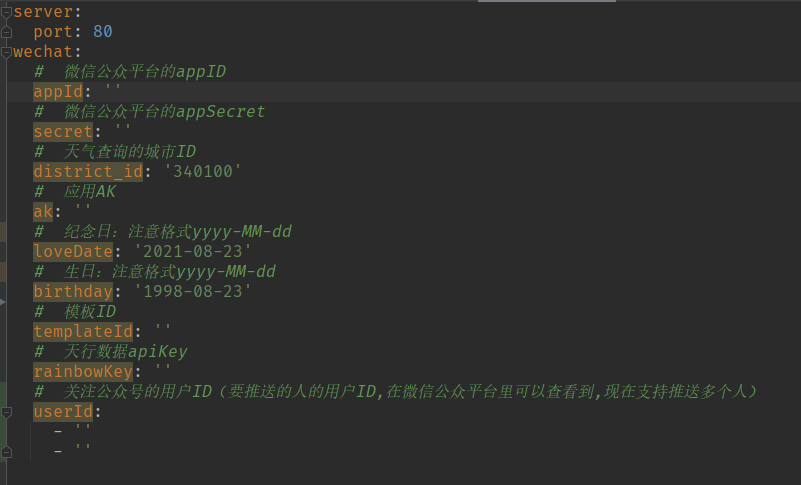
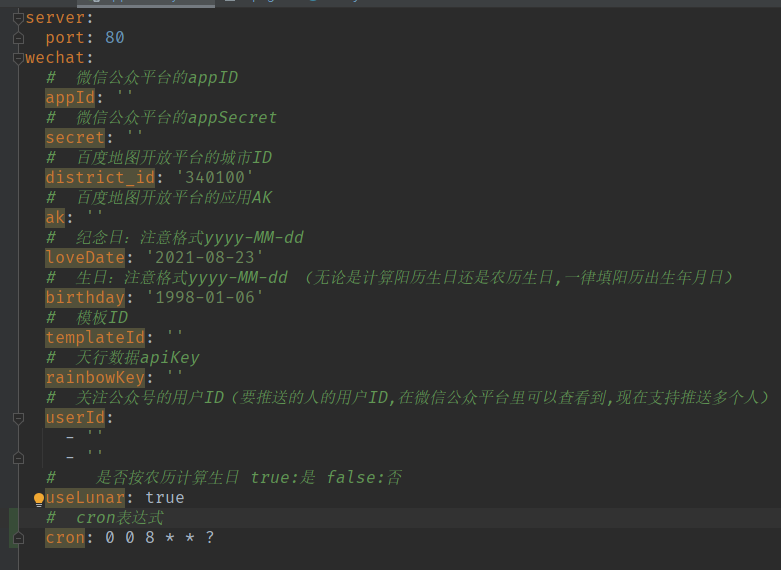
第六次提交,cron表达式也放到配置里

diff --git a/src/main/java/com/cws/scheduled/Task.java b/src/main/java/com/cws/scheduled/Task.java
@@ -14,8 +14,8 @@ import org.springframework.scheduling.annotation.Scheduled;
 @EnableScheduling
 @Configuration
 public class Task {
-    // 定时 早8点推送  0秒 0分 8时
-    @Scheduled(cron = "0 0 8 * * ?")
+    // 定时任务
+    @Scheduled(cron = "${wechat.cron}")
     public void goodMorning() {
         PushUtil.push();
     }

diff --git a/README.md b/README.md
@@ -56,9 +56,7 @@ apiKey配置到application.yml的rainbowKey
 ![image](src/main/resources/img/2.png)
 
 启动项目后打开浏览器输入  localhost/test  即可手动调用。
-定时任务默认每天早8点推送,如需修改可去Task类上修改cron表达式。
-
-![image](src/main/resources/img/3.png)
+定时任务默认每天早8点推送,如需修改可去application.yml上修改cron表达式。(不会写cron表达式的可以百度搜索：在线cron表达式)
 
 ###### `有问题欢迎留言或者私信`
 
@@ -72,7 +70,9 @@ apiKey配置到application.yml的rainbowKey
 
 ![1661309025827](src/main/resources/img/7.png) 
 
-改成下面红框里的重启程序即可
+改成下面红框里的重启程序即可。
+
+如果只推送一个人，就把空白的userId注释掉，否则也会报这个错。
 
  ![1661309025827](src/main/resources/img/8.png)
 
@@ -107,7 +107,7 @@ apiKey配置到application.yml的rainbowKey
 
 ## 如果我的代码对你有帮助,欢迎给我一个Star
 
-#### 本项目根据博客教程开发而来，码云上有人用我代码只改一下readme文件就上传到自己仓库也不标明原作者，希望大家都能支持原创吧！！！
+## 转载上传请标明原仓库谢谢!!!
 
 #### respect!!!
 
@@ -124,6 +124,8 @@ apiKey配置到application.yml的rainbowKey
 ## 2.如果没有maven
 
 ### 1.先下载maven。
+
+建议下载和我一样的版本（3.5.2），因为好多朋友下载的3.8的高版本idea不支持。
 
 ### 2.配置maven系统环境变量。
 
@@ -153,3 +155,7 @@ apiKey配置到application.yml的rainbowKey
 第一次下载依赖会比较慢，因为你的仓库很多依赖都没有，大概需要几分钟到10分钟，下载完没有爆红就可以启动项目了
 
 ![image](src/main/resources/img/13.png)
+
+# 关于部署
+
+如果没有服务器的朋友可以把该项目注册成windows服务并开机自启，这样只要你的电脑是开机状态程序就会一直运行。这种方式对你日常使用电脑几乎没有任何影响（只是多占了一点内存）。
